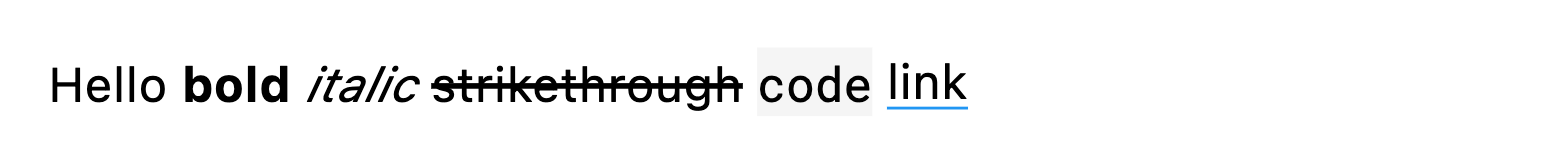
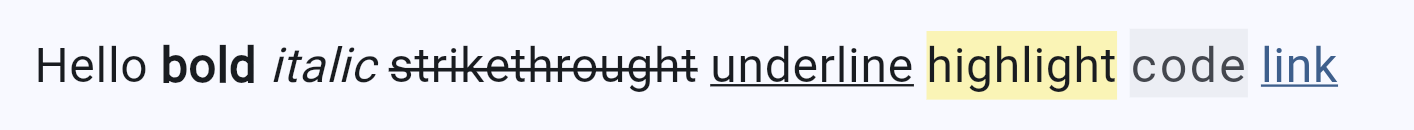
chore: update version to 0.4.0 and enhance README with new formatting options

Changed region(s): [[0.0, 0.2154, 0.9646, 0.7692]]

diff --git a/example/textf_core/lib/screens/screenshot_screen.dart b/example/textf_core/lib/screens/screenshot_screen.dart
@@ -86,7 +86,7 @@ class ScreenshotScreen extends StatefulWidget {
 
 class _ScreenshotScreenState extends State<ScreenshotScreen> {
   final TextEditingController _textController = TextEditingController(
-    text: 'Hello **bold** *italic* ~~strike~~ ++underline++ ==highlight== `code` [link](https://example.com)',
+    text: 'Hello **bold** *italic* ~~strikethrought~~ ++underline++ ==highlight== `code` [link](https://example.com)',
   );
   final GlobalKey _screenshotKey = GlobalKey();
 

diff --git a/README.md b/README.md
@@ -1,4 +1,4 @@
-# Textf
+# Textf • [![pub package](https://img.shields.io/pub/v/textf.svg)](https://pub.dev/packages/llmifier) [![License: MIT](https://img.shields.io/badge/License-MIT-yellow.svg)](https://opensource.org/licenses/MIT)
 
 A lightweight, high-performance Flutter widget for simple inline text formatting.
 
@@ -26,7 +26,7 @@ Add Textf to your `pubspec.yaml`:
 
 ```yaml
 dependencies:
-  textf: ^0.2.0
+  textf: ^0.4.0
 ```
 
 Then run:
@@ -50,7 +50,9 @@ class MyWidget extends StatelessWidget {
   @override
   Widget build(BuildContext context) {
     return Textf(
-      'Hello **bold** *italic* ~~strikethrough~~ `code` [link](https://flutter.dev)',
+      'Hello **bold** *italic* ~~strikethrough~~ `code` '
+      '++underline++ ==highlight== '
+      '[link](https://flutter.dev)',
       style: TextStyle(fontSize: 16),
     );
   }
@@ -69,6 +71,8 @@ Textf supports the following inline formatting syntax, similar to a subset of Ma
 | Italic        | `*italic*` or `_italic_`     | *italic*          |
 | Bold+Italic   | `***both***` or `___both___` | ***both***        |
 | Strikethrough | `~~strikethrough~~`          | ~~strikethrough~~ |
+| Underline     | `++underline++`              | ++underline++     |
+| Highlight     | `==highlight==`              | ==highlight==     |
 | Code          | `` `code` ``                 | `code`            |
 | Link          | `[text](url)`                | [Example Link](https://example.com) |
 
@@ -122,8 +126,8 @@ Using the same marker type for nested formatting may result in unexpected render
 
 ```dart
 Textf(
-  'The **quick** _brown_ fox jumps over '
-  'the ~~lazy~~ `dog`. \*Escaped asterisks\*',
+  'The **quick** _brown_ fox jumps over \n'
+  'the ~~lazy~~ ++wily++ ==alert== `dog`. \*Escaped asterisks\*',
   style: TextStyle(fontSize: 18),
   textAlign: TextAlign.center,
 )
@@ -150,8 +154,9 @@ TextfOptions(
   codeStyle: TextStyle(fontFamily: 'RobotoMono', backgroundColor: Colors.grey.shade200),
 
   strikethroughStyle: TextStyle(decorationColor: Colors.orange, decorationThickness: 3.0),
-  // -- OR -- Use thickness only if not providing a full strikethroughStyle:
-  // strikethroughThickness: 1.5, // Only applies if strikethroughStyle is null
+
+  underlineStyle: TextStyle(decoration: TextDecoration.underline, decorationColor: Colors.purple, decorationStyle: TextDecorationStyle.wavy),
+  highlightStyle: TextStyle(backgroundColor: Colors.greenAccent.withOpacity(0.5), color: Colors.black),
 
   // Link options
   urlStyle: TextStyle(color: Colors.green),
@@ -172,7 +177,9 @@ TextfOptions(
   },
 
   child: Textf(
-    'This text has **bold**, *italic*, ~~strikethrough~~, `code`, and [links](https://example.com).',
+    'This text has **bold**, *italic*, ~~strikethrough~~, `code`, '
+    '++underline++, ==highlight==, '
+    'and [links](https://example.com).',
     style: TextStyle(fontSize: 16),
   ),
 )
@@ -195,6 +202,12 @@ TextfOptions(
 - **`strikethroughThickness`**: `double?` Specifies the thickness of the strikethrough line.
   - This property is **only used if `strikethroughStyle` is `null`**.
   - If both `strikethroughStyle` and `strikethroughThickness` are `null` in the entire ancestor chain, `DefaultStyles.defaultStrikethroughThickness` (`1.5`) is used.
+- **`underlineStyle`**: `TextStyle?` for underlined text (`++underline++`).
+  - Merged **onto** the base text style if provided.
+  - If `null`, `DefaultStyles.underlineStyle` (adds `TextDecoration.underline`) is used as a fallback. The decoration color and thickness are derived from the base style or package defaults.
+- **`highlightStyle`**: `TextStyle?` for highlighted text (`==highlight==`).
+  - Merged **onto** the base text style if provided.
+  - If `null`, a theme-aware default highlight style (e.g., using `Theme.of(context).colorScheme.tertiaryContainer` as background) is applied.
 - **`codeStyle`**: `TextStyle?` for inline code text (`` `code` ``).
   - Merged **onto** the base text style if provided.
   - Overrides the default theme-based styling for code if specified.
@@ -293,8 +306,8 @@ To effectively style your `Textf` widgets and leverage the theme-aware defaults 
     - `Textf` resolves styles in this order (highest priority first):
         1. **`TextfOptions`:** Specific style defined for the format type (e.g., `boldStyle`, `urlStyle`) found in the nearest ancestor `TextfOptions`.
         2. **Theme/Package Defaults (if no Option):**
-            - For `code` and links: Theme-aware defaults derived from `ThemeData` (e.g., `colorScheme.primary` for links).
-            - For `bold`, `italic`, `strikethrough`: Relative styles applied to the base style (e.g., adding `FontWeight.bold`).
+            - For `code`, links, and `highlight`: Theme-aware defaults derived from `ThemeData` (e.g., `colorScheme.primary` for links).
+            - For `bold`, `italic`, `strikethrough`, `underline`: Relative styles applied to the base style (e.g., adding `FontWeight.bold`).
         3. **Base Style:** The style inherited from `DefaultTextStyle` or provided directly via `Textf`'s `style` parameter.
 
 By following these guidelines, you can ensure predictable styling that integrates well with your application's theme while retaining full control over specific formatting appearances via `TextfOptions`.
@@ -334,7 +347,7 @@ Performance benchmarks show Textf maintains smooth rendering (60+ FPS) even with
 
 Textf is intentionally focused on inline formatting only:
 
-- Maximum nesting depth of 2 formatting levels
+- **Maximum nesting depth of 2 formatting levels**
 - No support for block elements (headings, lists, quotes, etc.)
 - No support for images
 - Designed for inline formatting and links only, not full Markdown rendering
@@ -350,6 +363,8 @@ If you need more comprehensive Markdown features, consider a full Markdown packa
 - ✅ Combined bold+italic with `***text***` or `___text___`
 - ✅ Strikethrough with `~~text~~`
 - ✅ Inline code with `` `code` ``
+- ✅ Underline with `++underline++`
+- ✅ Highlight with `==highlight==`
 - ✅ Nested formatting (up to 2 levels deep)
 - ✅ Escaped characters with backslash
 - ✅ Performance optimization with caching
@@ -361,7 +376,6 @@ If you need more comprehensive Markdown features, consider a full Markdown packa
 
 - 🔲 Full support for Flutter text properties
 - 🔲 Superscript and subscript with `^text^` and `~text~`: Textf('E = mc^2^ and H~2~O')
-- 🔲 Highlight/Mark Text: Textf('This is ==highlighted== text')
 - 🔲 RTL language optimization
 - 🔲 Improved accessibility features
 

diff --git a/CHANGELOG.md b/CHANGELOG.md
@@ -2,7 +2,29 @@
 
 All notable changes to the `textf` package will be documented in this file.
 
-## 0.3.0 - 2025-04-18
+## 0.4.0
+
+2025-05-18
+
+### Added
+
+- **Underline Formatting:** Implemented support for underline formatting with `++text++` syntax.
+
+- **Highlight Formatting:** Implemented support for highlight formatting with `==text==` syntax.
+
+- **Improved Decoration Handling:** Default styles for strikethrough and underline now attempt to combine with existing decorations on the base style, allowing for concurrent `++~~underline and strikethrough~~++`. `decorationColor` and `decorationThickness` from the most recently applied default decoration or `TextfOptions` will take precedence for the combined decoration.
+
+### Changed
+
+- **TextfOptions:** Extended with `underlineStyle` and `highlightStyle` properties.
+- **Link Formatting:**
+  - Nested text decorations within link display text (e.g., `[~~strikethrough~~](url)`) are now correctly combined with the link's own decoration (e.g., underline), ensuring both are visually applied.
+  - Improved application of `TextfOptions.urlHoverStyle`, ensuring hover-specific styles correctly merge with the link's resolved normal appearance, preserving properties like color and font size unless explicitly overridden by the hover style.
+- **Internal Refactoring:** Enhanced `TokenType` enum to directly indicate if a token is for links or formatting. This improves internal parsing logic in `PairingResolver` and `TextfParser` for minor performance gains and better code clarity. (Thanks @timmaffett!)
+
+## 0.3.0
+
+2025-04-18
 
 ### Added
 
@@ -23,13 +45,17 @@ All notable changes to the `textf` package will be documented in this file.
 
 - **Internal:** Updated internal tests to correctly account for the new theme-aware default styles.
 
-## 0.2.1 - 2025-04-12
+## 0.2.1
+
+2025-04-12
 
 ### Fixed
 
 - **Hot Reload Reliability:** Fixed an issue where changes made to `TextfOptions` (e.g., custom colors, styles) or internal formatting logic might not render correctly immediately after using hot reload during development. The internal parser cache is now properly invalidated only in debug mode during `reassemble`, ensuring UI consistency and improving the development workflow without affecting release build performance.
 
-## 0.2.0 - 2025-04-12
+## 0.2.0
+
+2025-04-12
 
 ### Added
 
@@ -53,7 +79,9 @@ All notable changes to the `textf` package will be documented in this file.
 - Updated default font family for inline code text to RobotoMono for better readability
 - Enabled trailing commas in analysis options for code consistency
 
-## 0.1.1 - 2025-04-05
+## 0.1.1
+
+2025-04-05
 
 ### Changed
 
@@ -65,7 +93,9 @@ All notable changes to the `textf` package will be documented in this file.
 
 - Formatted code for tests to meet Dart style guidelines
 
-## 0.1.0 - 2025-04-04
+## 0.1.0
+
+2025-04-04
 
 ### Added
 
